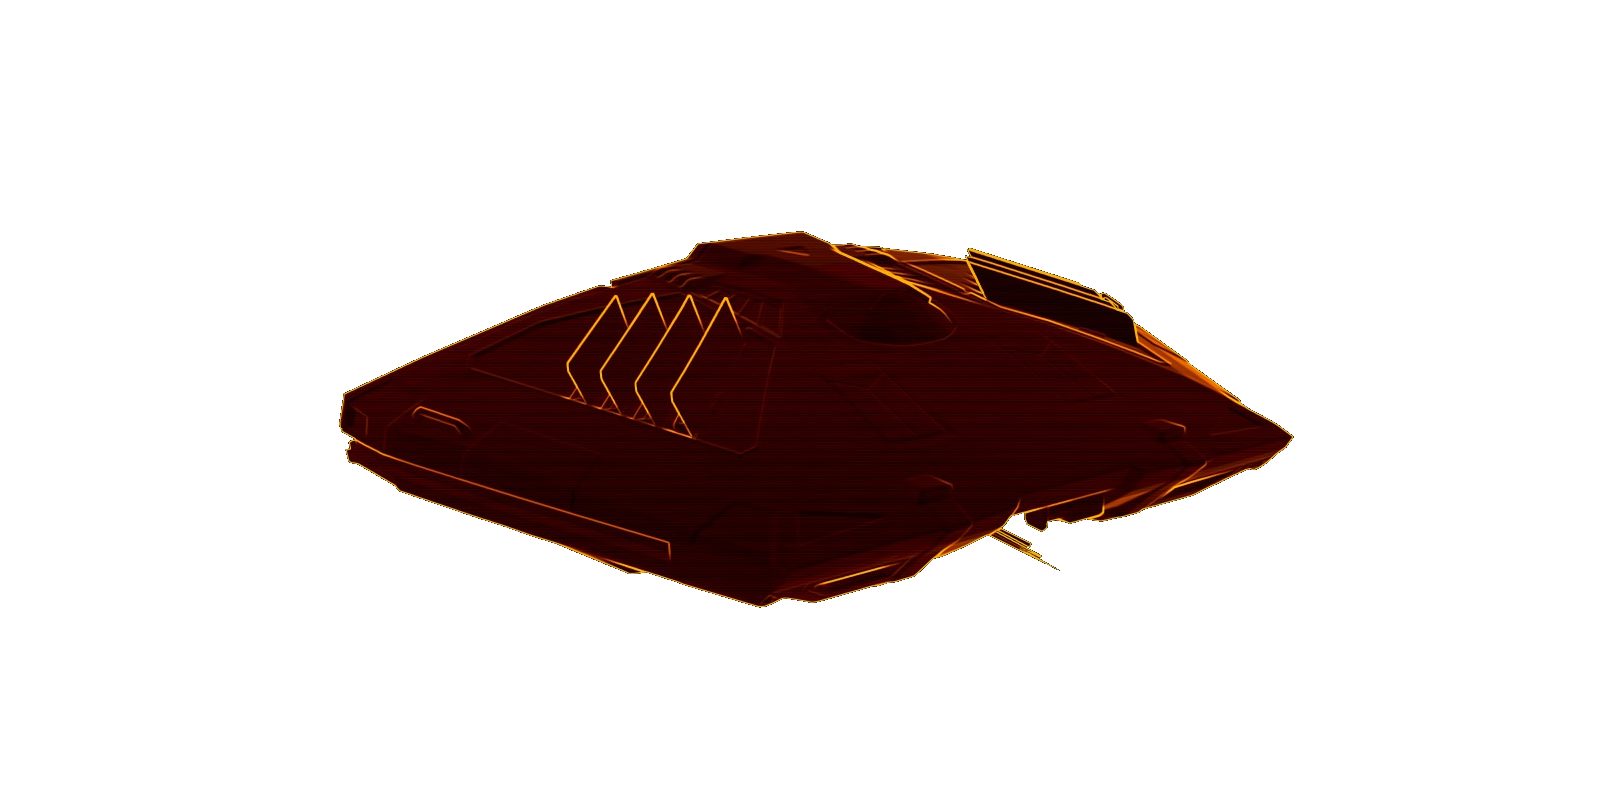
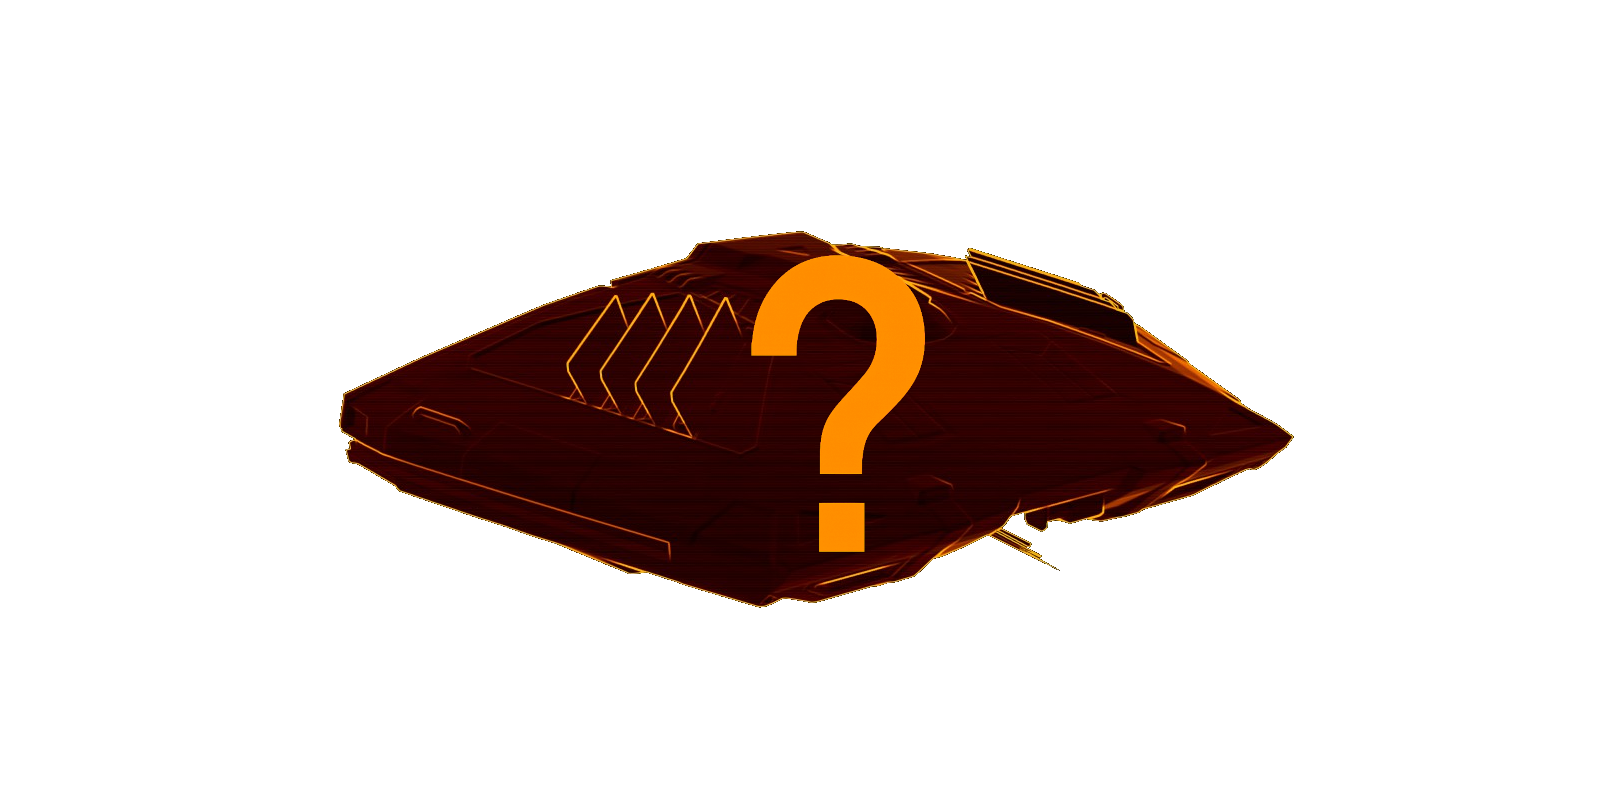
update_unkown_ship

Changed region(s): [[0.4688, 0.3125, 0.5938, 0.5938], [0.5, 0.625, 0.5625, 0.6875]]

diff --git a/ui/src/app/components/status-container/status-container.component.css b/ui/src/app/components/status-container/status-container.component.css
@@ -1399,6 +1399,188 @@
   padding: 12px;
 }
 
+
+
+
+
+
+
+
+
+
+
+
+
+/* --- Ship & Modules bottom panel --- */
+.ship-modules-panel {
+  margin-top: 16px;
+  padding: 12px 12px 16px;
+  border: 1px solid rgba(255,255,255,0.12);
+  border-radius: 10px;
+  background: rgba(0, 0, 0, 0.2);;
+}
+
+/* 3-column stage: left modules | ship | right modules */
+.ship-stage {
+  display: grid;
+  grid-template-columns: 1fr auto 1fr;
+  gap: 12px;
+  align-items: center;
+  justify-items: center;
+  position: relative;
+  z-index: 1; /* in front of any background */
+}
+
+/* Left/Right columns */
+.ship-modules-left,
+.ship-modules-right {
+  display: grid;
+  gap: 8px;
+  align-content: start;
+}
+
+/* Module box look */
+.module-box {
+  border: 1px solid rgba(255,255,255,0.12);
+  background: rgba(255,255,255,0.04);
+  border-radius: 8px;
+  padding: 8px 10px;
+  font-size: 0.95rem;
+}
+.module-name { font-weight: 600; }
+.module-eng  { margin-top: 2px; opacity: 0.9; font-size: 0.9rem; display: flex; gap: 6px; align-items: center; }
+.eng-icon    { font-size: 18px; width: 18px; height: 18px; }
+
+/* Center figure */
+.ship-figure {
+  margin: 0;
+  position: relative;
+  display: grid;
+  justify-items: center;
+  z-index: 2;
+}
+.ship-figure img {
+  width: min(100%, 1600px);
+  height: auto;
+  max-height: 800px;
+  object-fit: contain;
+  filter: drop-shadow(0 12px 24px rgba(0,0,0,0.35));
+}
+.ship-caption {
+  margin-top: 6px;
+  font-size: 0.95rem;
+  opacity: 0.8;
+}
+
+/* Responsive stack */
+@media (max-width: 1200px) {
+  .ship-stage { grid-template-columns: 1fr; }
+}
+
+
+
+/* Ensure overlay anchors relative to the status container */
+.status-container {
+  position: relative;
+}
+
+/* Overlay box aligned with the background ship area (bottom-right) */
+.ship-overlay {
+  position: absolute;
+  right: 0;
+  bottom: 0;
+  /* English: match the background ship's max size (1600x800) while staying responsive */
+  width: min(100%, 1600px);
+  height: min(50vw, 800px);
+  /* Put overlay above background but below expanded panels if they use higher z-index */
+  z-index: 5;
+  pointer-events: auto; /* badges can be interactive if needed */
+}
+
+/* Two columns: left badges + right spacer (ship is background behind) */
+.ship-overlay-grid {
+  display: grid;
+  grid-template-columns: auto 1fr;
+  height: 100%;
+}
+
+/* Left column: vertical list of 7 boxes aligned to bottom */
+.ship-badges-left {
+  display: grid;
+  gap: 8px;
+  align-content: end;   /* English: sit near the ship bottom edge */
+  padding: 8px;
+}
+
+/* Box look (image + text) */
+.badge-box {
+  display: grid;
+  grid-template-columns: auto 1fr;
+  align-items: center;
+  gap: 10px;
+  padding: 8px 10px;
+  border: 1px solid rgba(255,255,255,0.12);
+  background: rgba(255,255,255,0.04);
+  border-radius: 8px;
+}
+
+.badge-icon {
+  width: 40px;
+  height: 40px;
+  object-fit: contain;
+  filter: drop-shadow(0 2px 4px rgba(0,0,0,0.35));
+}
+
+.badge-label {
+  font-size: 0.95rem;
+  font-weight: 600;
+  letter-spacing: 0.3px;
+  opacity: 0.95;
+}
+
+/* Optional: slightly reduce spacing on very narrow screens */
+@media (max-width: 900px) {
+  .ship-badges-left { gap: 6px; }
+  .badge-box { padding: 6px 8px; }
+}
+
+
+
+
+
+
+
+
+
+
+
+
+
+
+
+
+
+
+
+
+
+
+
+
+
+
+
+
+
+
+
+
+
+
+
+
+
+
 /* Responsive design */
 @media (max-width: 1200px) {
   .character-sheet-body {

diff --git a/ui/src/app/components/status-container/status-container.component.ts b/ui/src/app/components/status-container/status-container.component.ts
@@ -88,8 +88,16 @@ export class StatusContainerComponent implements OnInit, OnDestroy {
   ngOnInit(): void {
     // Subscribe only to projections referenced in the template
     this.subscriptions.push(
-      this.projectionsService.currentStatus$.subscribe(status => {
-        this.currentStatus = status;
+      this.projectionsService.shipInfo$.subscribe(shipInfo => {
+        const prev = this.shipInfo?.Type;
+        this.shipInfo = shipInfo;
+
+        
+        if (this.shipInfo?.Type !== prev) {
+          this.updateShipImage();
+        } else if (!this.shipImgSrc) {
+          this.updateShipImage();
+        }
       }),
       
       this.projectionsService.location$.subscribe(location => {
@@ -98,6 +106,7 @@ export class StatusContainerComponent implements OnInit, OnDestroy {
       
       this.projectionsService.shipInfo$.subscribe(shipInfo => {
         this.shipInfo = shipInfo;
+        
       }),
       
       this.projectionsService.friends$.subscribe(friends => {
@@ -740,6 +749,84 @@ export class StatusContainerComponent implements OnInit, OnDestroy {
     return this.loadout?.Rebuy || 0;
   }
 
+
+
+
+
+
+
+
+  private readonly SHIP_ASSET_DIR = 'assets/ship/ext';
+  private readonly FALLBACK_IMG   = `${this.SHIP_ASSET_DIR}/unknown_ship.png`;
+
+  private readonly SHIP_IMAGE_MAP: Record<string, string> = { // adding ship only if ui dont work
+      'Fer-de-Lance': 'ferdelance',
+      'Krait Phantom': 'krait_light',
+      'Viper Mk III': 'viper_mk_iii',
+      'diamondbackxl': 'd_scout_expl',
+      'diamondback': 'd_scout_expl',
+      'asp_scout': 'asp_scout_exp',
+      'asp': 'asp_scout_exp',
+      'federation_dropship': 'federation_dropship',
+      'federation_dropship_mkii': 'federation_dropship_mkii',
+      'federation_gunship':'federation_gunship',
+      'empire_trader': 'empire_trader',
+      'empire_eagle': 'empire_eagle',
+      'empire_courier': 'empire_courier',
+      'cutter': 'cutter',
+      'typex_2':'typex_2',
+      'typex_3':'typex_3',
+      'python_nx':'python_nx',
+      'krait_light':'krait_light'
+  };
+
+
+  leftBadges: Array<{ label: string; icon?: string }> = [
+    { label: 'HULL' },        // -> assets/ship/int/hull.png
+    { label: 'FSD' },     // -> assets/ship/int/shields.png
+    { label: 'SENSOR' },        // -> assets/ship/int/fuel.png
+    { label: 'CARGO' },       // -> assets/ship/int/cargo.png
+  ];
+  shipImgSrc: string = this.FALLBACK_IMG;
+
+  
+  private slugifyShipType(raw: string): string {
+    if (!raw) return 'unknown_ship';
+    return raw.trim().toLowerCase()
+      .replace(/[^a-z0-9 \-]+/g, '')   // keep letters/numbers/space/dash
+      .replace(/\s+/g, '_')
+      .replace(/_+/g, '_');
+  }
+
+  updateShipImage(): void {
+    const type = this.getShipType();
+    const base = this.SHIP_IMAGE_MAP[type] ?? this.slugifyShipType(type);
+    // cache-bust by type so the <img> refreshes on change
+    this.shipImgSrc = `${this.SHIP_ASSET_DIR}/${base}.png?v=${encodeURIComponent(type)}`;
+    
+  }
+  onShipImgError(ev: Event): void {
+    const img = ev.target as HTMLImageElement | null;
+    if (img && !img.src.includes('/unknown_ship.png')) {
+      img.src = this.FALLBACK_IMG + `?v=${Date.now()}`;
+      
+    }
+  }
+
+
+
+
+
+
+
+
+
+
+
+
+
+
+  
   getCurrentBalance(): number {
     return this.currentStatus?.Balance || 0;
   }

diff --git a/ui/src/app/components/status-container/status-container.component.html b/ui/src/app/components/status-container/status-container.component.html
@@ -324,6 +324,8 @@
                     <div class="character-subtitle">{{ getShipType() }} {{ getActiveMode() !== 'buggy' ? '(' + getShipIdent() + ')' : '' }}</div>
                 </div>
 
+
+
                 <!-- Location Info -->
                 <div class="location-nav-container-header">
                     <div class="location-info">
@@ -440,6 +442,41 @@
                     </div>
                 </div>
             </div>
+            
+
+            
+
+
+
+            <div class="ship-modules-panel">
+                <h3 class="section-header">SHIP OVERVIEW</h3>
+
+                <div class="ship-stage">
+                    <!-- Left column: utility modules (example boxes; adjust as needed) -->
+
+                    <!-- Center: ship artwork -->
+                    <figure class="ship-figure">
+                        <img
+                            [src]="shipImgSrc"
+                            [alt]="getShipType()"
+                            loading="lazy"
+                            decoding="async"
+                            (error)="onShipImgError($event)" />
+                        <figcaption class="ship-caption">{{ getShipType() }}</figcaption>
+                    </figure>
+                    
+                    
+                </div>
+            </div>
+
+
+
+
+
+
+
+
+
 
             <!-- SHIP SHEET MAIN SECTION -->
             <div class="character-sheet-body">
